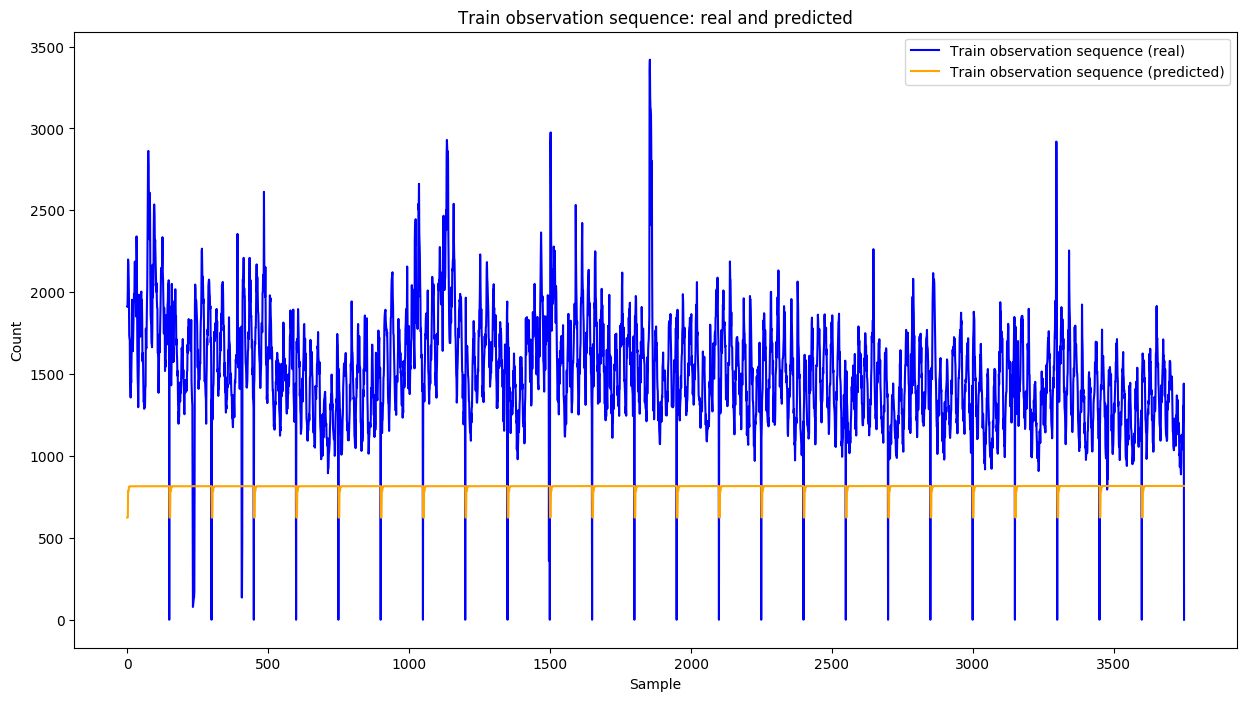
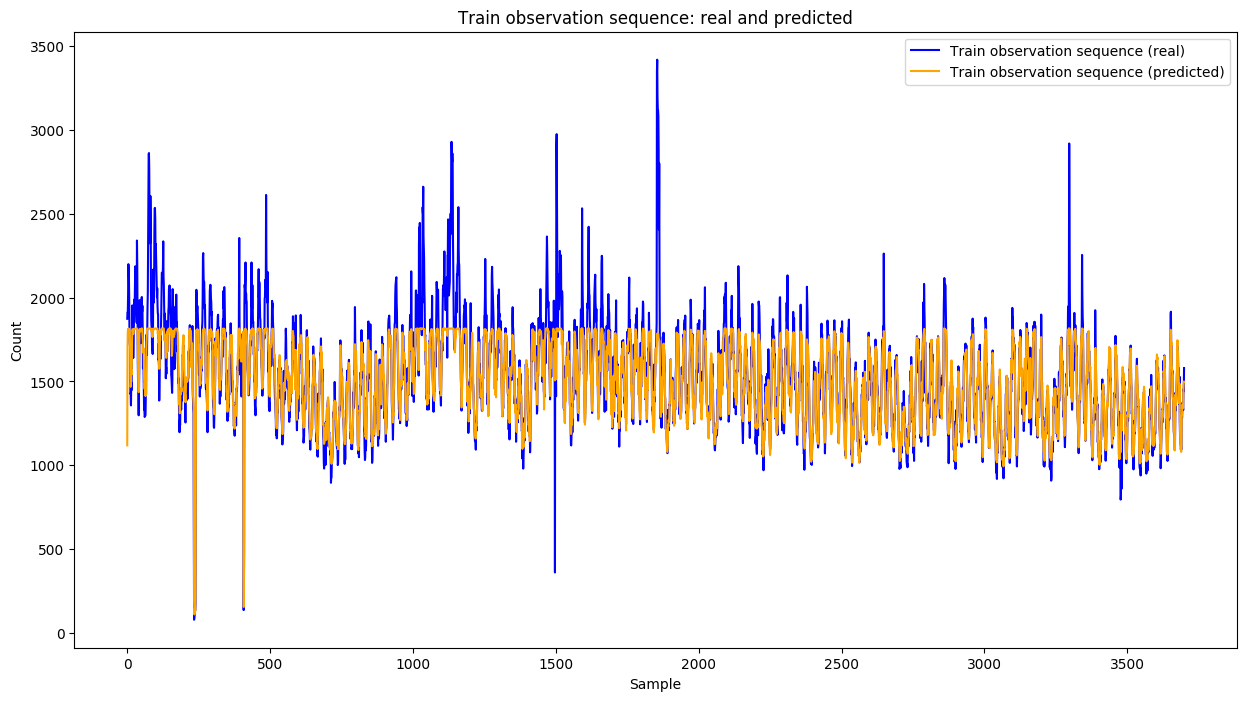
Auto stash before merge of "master" and "origin/master"

diff --git a/lstm/arquitetura2/sem_sliding_batches/lstm_run.py b/lstm/arquitetura2/sem_sliding_batches/lstm_run.py
@@ -87,6 +87,12 @@ class Encoder(nn.Module):
         self.lstm = nn.LSTM(self.input_size, self.hidden_dim, num_layers=self.num_layers, dropout=0.2)
         for name, param in self.lstm.named_parameters():
             if 'bias' in name:
+                nn.init.constant_(param, 0.0)
+            elif 'weight' in name:
+                nn.init.xavier_normal_(param)
+        self.hidden = None
+        for name, param in self.lstm.named_parameters():
+            if 'bias' in name:
                 nn.init.constant_(param,0.0)
             elif 'weight' in name:
                 nn.init.xavier_normal_(param)
@@ -94,6 +100,7 @@ class Encoder(nn.Module):
         self.hidden = None #(nn.Parameter(torch.randn(self.num_layers, batch_size, self.hidden_dim).type(torch.FloatTensor).to(device), requires_grad = True), nn.Parameter(torch.randn(self.num_layers, batch_size, self.hidden_dim).type(torch.FloatTensor).to(device), requires_grad=True)) #None
         self.output = None
         self.device = device
+        self.hidden = (nn.Parameter(torch.randn(self.num_layers, batch_size, self.hidden_dim).type(FloatTensor), requires_grad=True), nn.Parameter(torch.randn(self.num_layers, batch_size, self.hidden_dim).type(FloatTensor), requires_grad=True))
 
     def init_hidden(self, batch_size):
         #return (torch.zeros(self.num_layers, batch_size, self.hidden_dim).to(self.device), #hidden state
@@ -430,7 +437,7 @@ def main():
     parser.add_argument("--seed", type=int, default=42, help="random seed for initialization")
     parser.add_argument("--gradient_accumulation_steps", type=int, default=1,help="Number of updates steps to accumulate before performing a backward/update pass.")
     parser.add_argument("--max_grad_norm", default=1.0, type=float, help="Max gradient norm.")
-    parser.add_argument("--logging_steps", type=int, default=300, help="Log every X updates steps.")
+    parser.add_argument("--logging_steps", type=int, default=30, help="Log every X updates steps.")
     parser.add_argument("--evaluate_during_training", action="store_false", help="Run evaluation during training at each logging step.")
     parser.add_argument("--max_steps", default=-1, type=int, help="If > 0: set total number of training steps to perform. Override num_train_epochs.")
     parser.add_argument("--test_acc", action="store_false", help="Run evaluation and store accuracy on test set.")
@@ -444,7 +451,7 @@ def main():
     seq_len = args.seq_len
     batch_size = args.batch_size
 
-    json_file_path = path+str(discretization_unit)+'.0/new_cut_dataset.txt' 
+    json_file_path = path+str(discretization_unit)+'.0/new_dataset.txt' 
 
     #load the dataset: timestamps and input ids (which correspond to the tweets already tokenized using BertTokenizerFast)
     #each chunk is read as a different dataset, and in the end all datasets are concatenated. A sequential sampler is defined.
